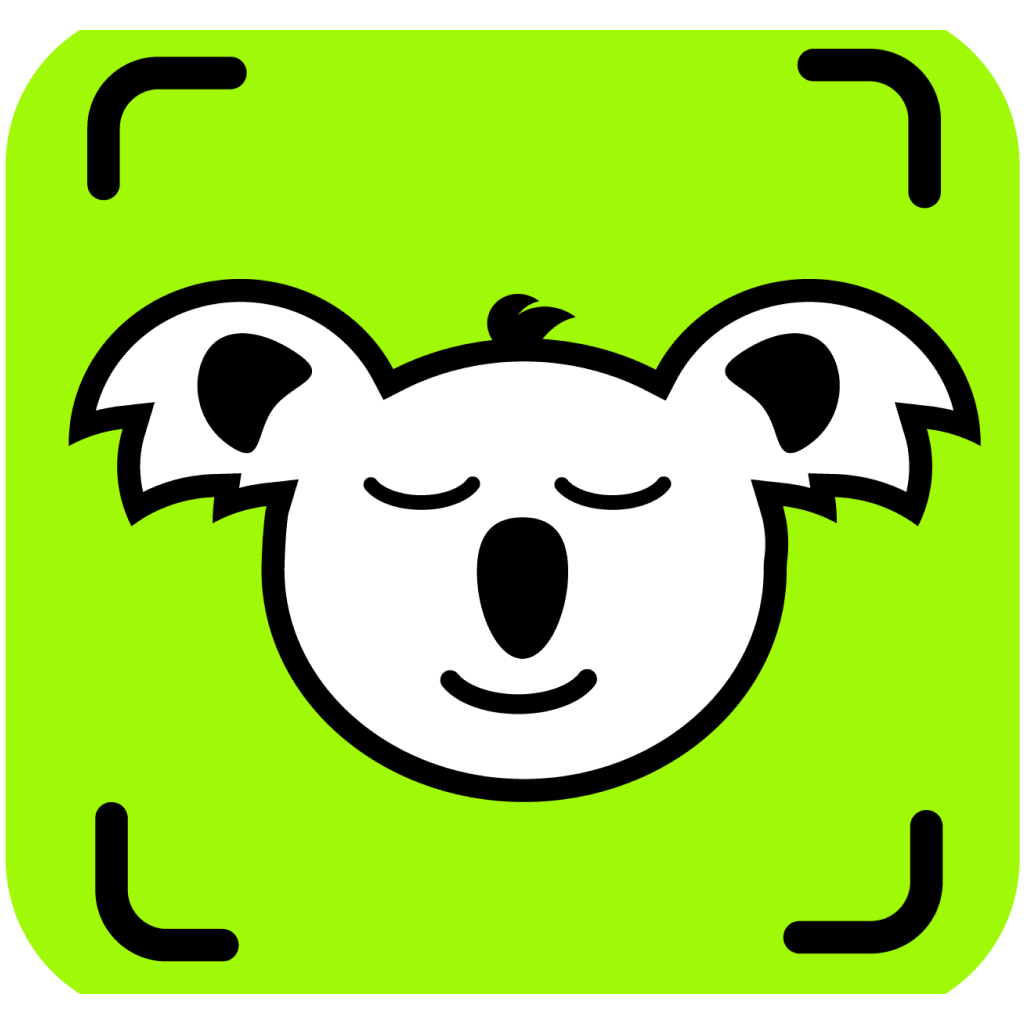
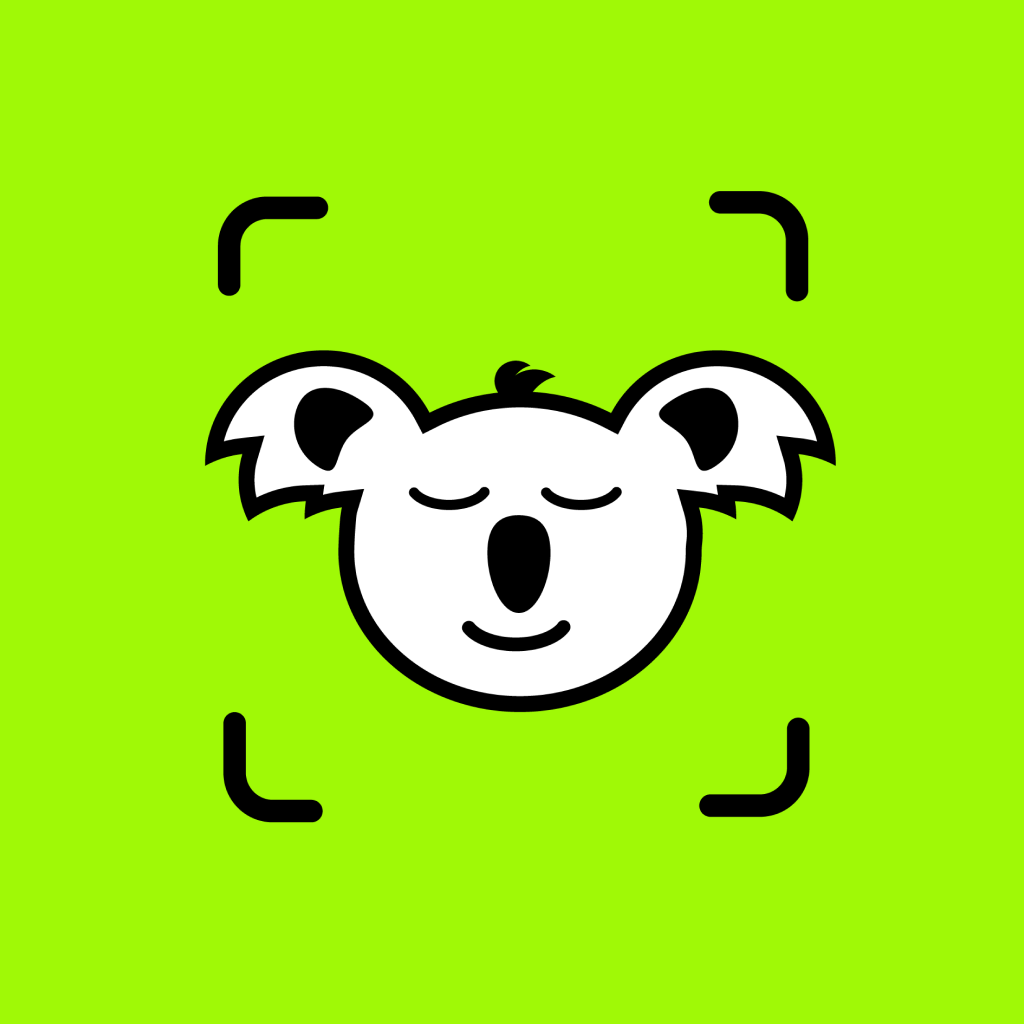
change onboarding assets

diff --git a/app/components/CustomComponents/QrScanner/useOnboardingCarousel.ts b/app/components/CustomComponents/QrScanner/useOnboardingCarousel.ts
@@ -8,11 +8,13 @@ export default () => {
 
   const [currentImageIndex, setCurrentImageIndex] = useState(0)
   const images = [
-    require("../../../../assets/images/onBoardingImages/checking.jpeg"),
-    require("../../../../assets/images/onBoardingImages/goodToGo.jpeg"),
-    require("../../../../assets/images/onBoardingImages/eqr.jpeg"),
-    require("../../../../assets/images/onBoardingImages/caution.jpeg"),
-    require("../../../../assets/images/onBoardingImages/goodToGo.jpeg"),
+    require("../../../../assets/images/onBoardingImages/checking.png"),
+    require("../../../../assets/images/onBoardingImages/goodToGo.png"),
+    require("../../../../assets/images/onBoardingImages/eqr.png"),
+    require("../../../../assets/images/onBoardingImages/caution.png"),
+    require("../../../../assets/images/onBoardingImages/goodToGo.png"),
+    require("../../../../assets/images/onBoardingImages/history.png"),
+    require("../../../../assets/images/onBoardingImages/leaderboard.png"),
   ]
 
   const text = [
@@ -21,6 +23,8 @@ export default () => {
     "Skip scanning! Utilise our EQR feature for instant access to the right QR code at your location.",
     "If the QR code is flagged as dangerous, we advice against proceeding to the site.",
     "Earn a leaf on every scan and become the top scanner for your area!",
+    "",
+    "",
   ]
 
   const onNextPress = () => {

diff --git a/app/components/CustomComponents/Carousel.tsx b/app/components/CustomComponents/Carousel.tsx
@@ -26,7 +26,6 @@ export const Carousel = observer(function Carousel(props: CarouselProps) {
   const { currentImageIndex, images, text, onNextPress, onBackPress, onFinishedOnboardingPress } =
     useOnboardingCarousel()
   const hitSlopFactor = { top: 10, bottom: 10, left: 10, right: 10 }
-  console.log("Carousel rendered")
 
   const swipeThreshold = 20 // Minimum pixels the user must swipe to trigger the action
   const velocityThreshold = 500 // Minimum velocity of the swipe
